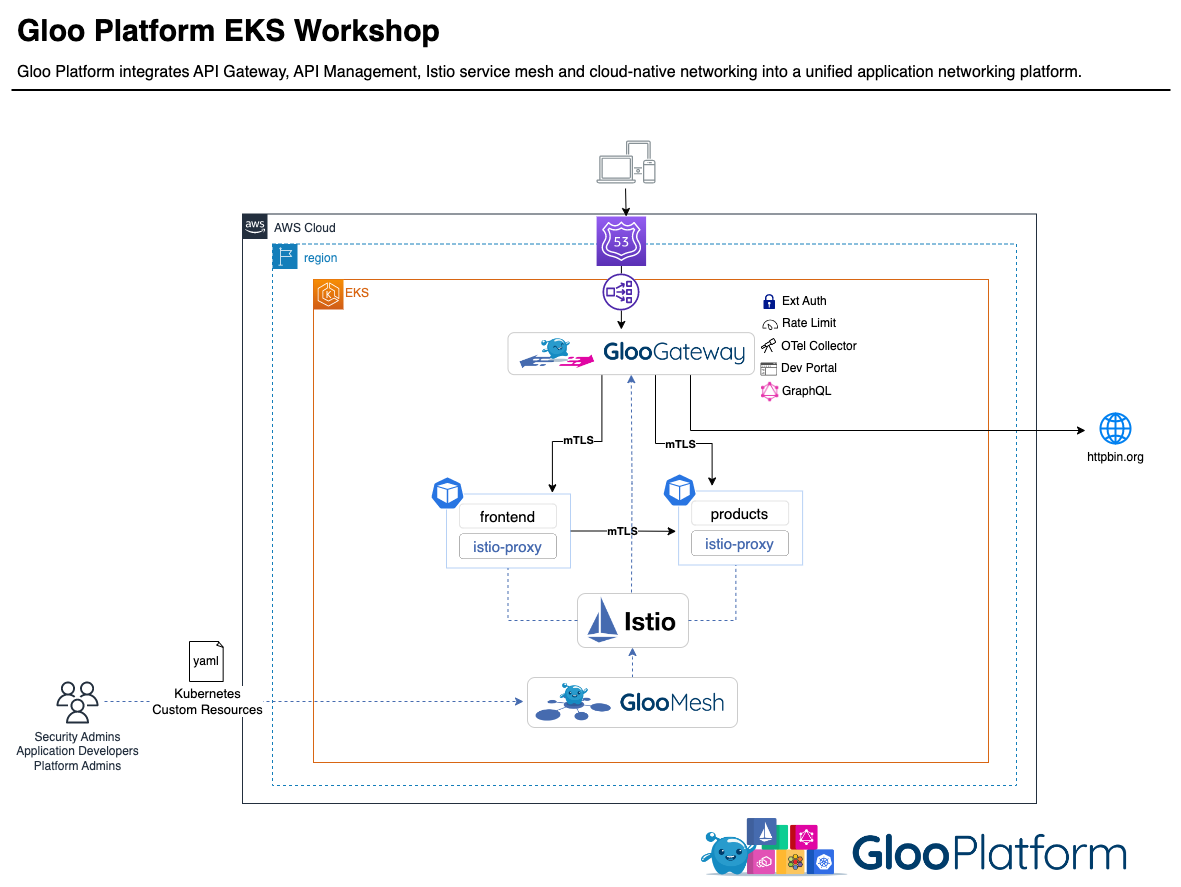
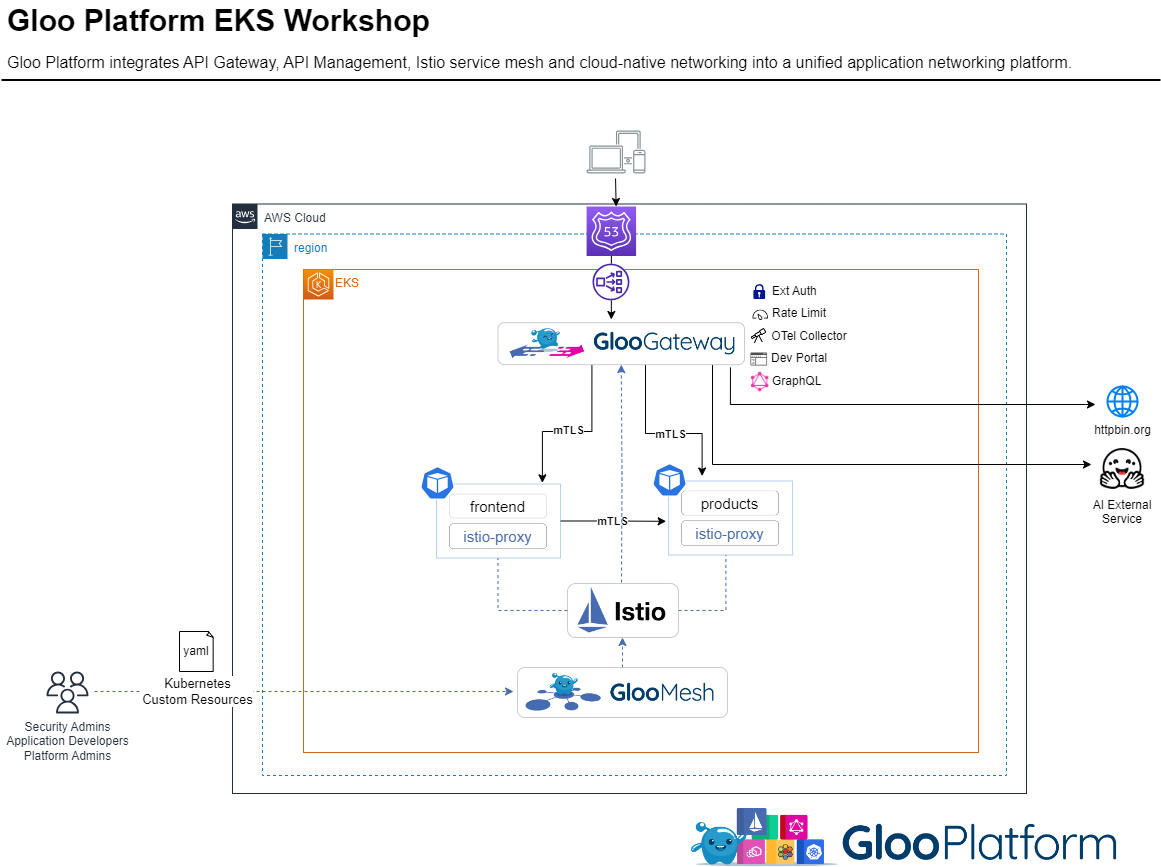
Add AI diagrams and notes

diff --git a/content/1_Solo_Workshop/Lab_4.md b/content/1_Solo_Workshop/Lab_4.md
@@ -146,5 +146,7 @@ In this lab, we will configure the gateway to forward requests to an AI external
     ```
     The expected results of the executed commands are illustrated in the screenshot below.
     ![Expected Output](/images/hugging_face_output.png)
+    > **Note:** The response in the screenshot is generated using a free model from Hugging Face. While it may provide entertaining and occasionally quirky responses, it's important to note that for more accurate and meaningful outputs, services like OpenAI's GPT models are recommended. The configuration process is similar, though OpenAI's service is not free. Sometimes you get what you pay for - even in AI responses!
+
 
 This lab has demonstrated the process of integrating AI services with your Gloo Platform on EKS. By configuring external services and routing rules, we've enabled the platform to forward requests to the Hugging Face API, allowing seamless AI integration. This capability is vital in modern applications, where leveraging AI services can significantly enhance functionality and user experience. The skills gained in this lab will be instrumental in managing more complex AI integrations and routing scenarios in your microservices architecture.

diff --git a/content/1_Solo_Workshop/Lab_6.md b/content/1_Solo_Workshop/Lab_6.md
@@ -138,6 +138,8 @@ In this lab, we will apply the concepts from "Lab 5 - Authentication / API Key" 
     ```
 
     ![Expected Output](/images/ai_api_key.png)
+    > **Note:** The response in the screenshot is generated using a free model from Hugging Face. While it may offer amusing and sometimes whimsical outputs, it's worth noting that for more precise and insightful results, services like OpenAI's GPT models are a better choice. The configuration process is similar, although OpenAI's service comes at a cost. Remember, even AI has its budget options—and they come with their quirks!
+
 
 In this lab, we have effectively integrated secure API key handling for AI services within the Gloo Platform on EKS. By implementing authentication policies and leveraging Kubernetes secrets, we've ensured that sensitive AI API tokens are managed securely and automatically. This lab demonstrated how to streamline access to powerful AI capabilities, such as those provided by Hugging Face, without exposing API keys directly to users.
 
